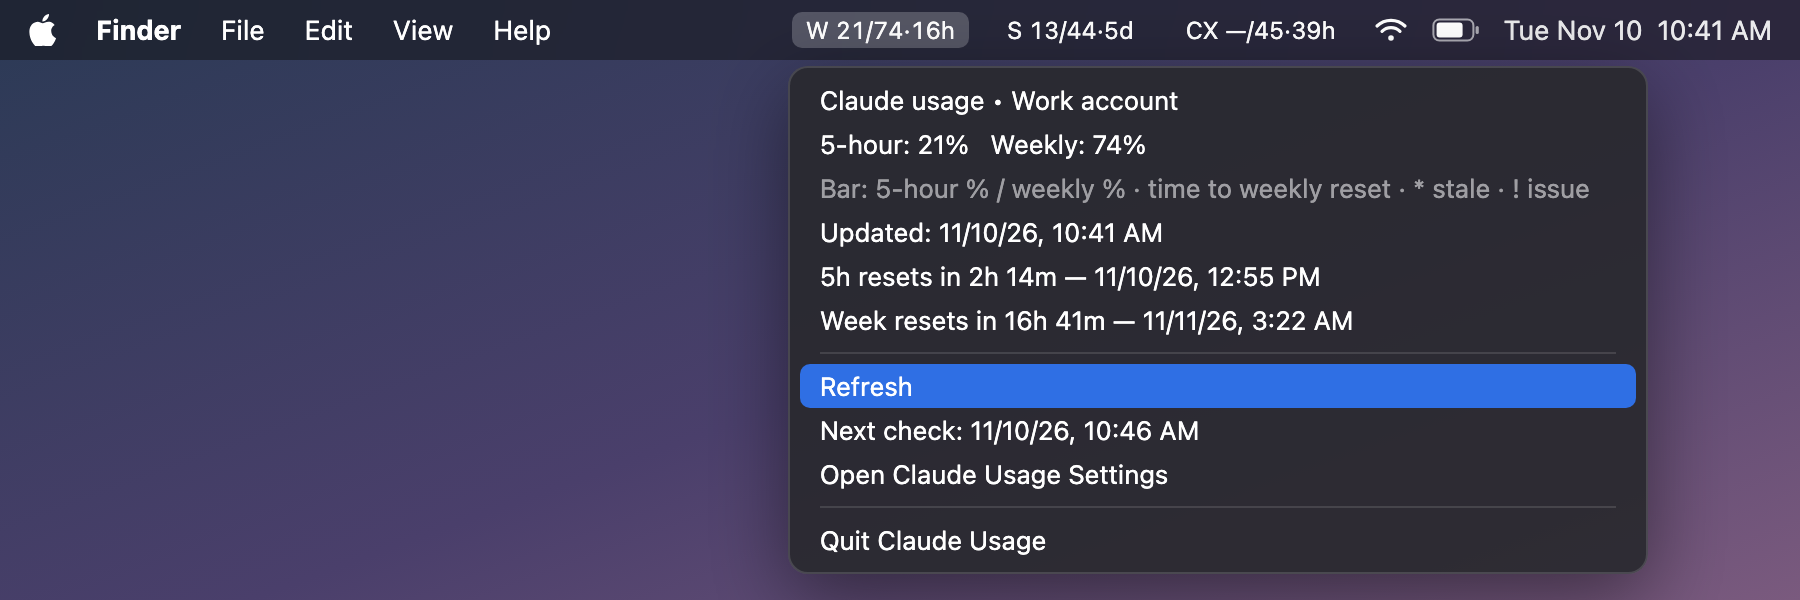
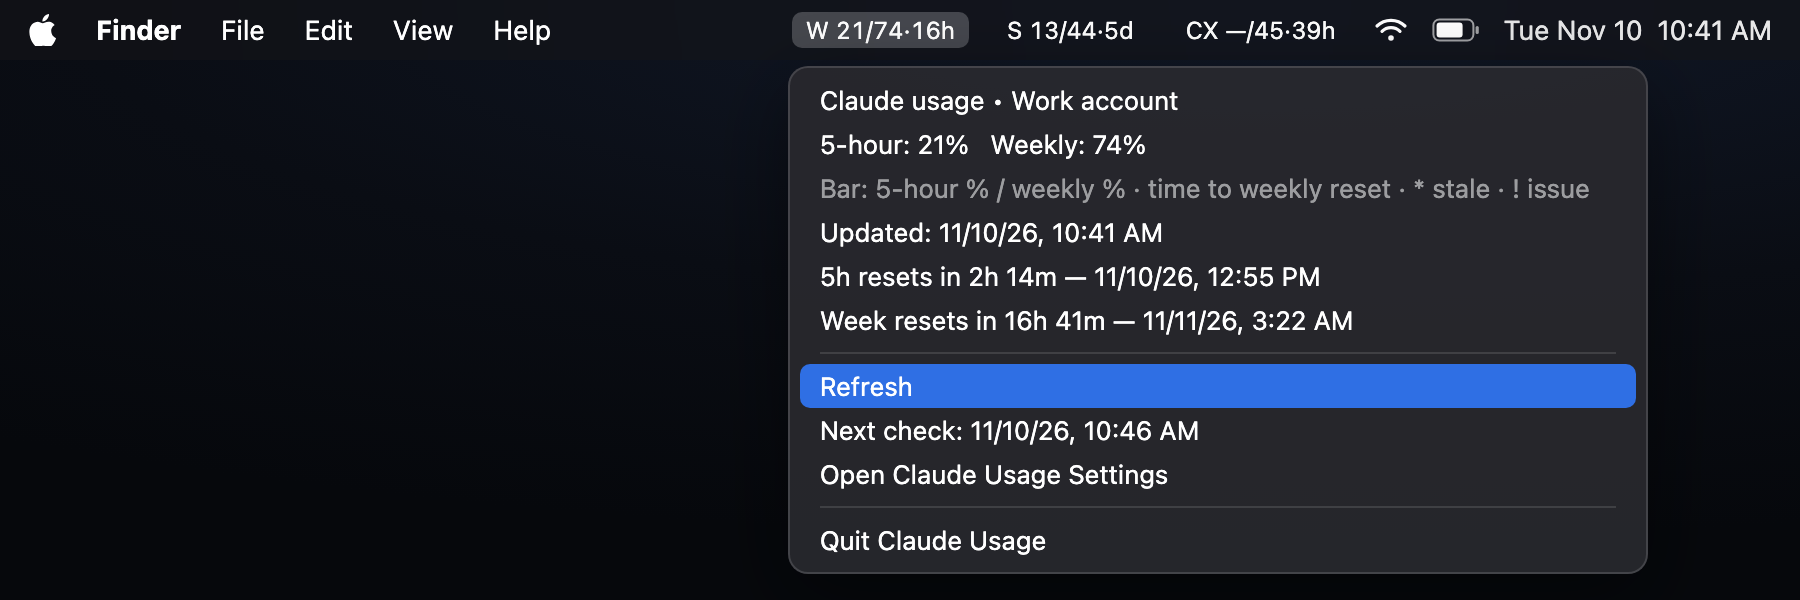
Use minimal dark style for architecture diagram and menu-bar preview

diff --git a/docs/architecture.html b/docs/architecture.html
@@ -1,5 +1,5 @@
 <!DOCTYPE html>
-<html lang="en" data-theme="dark" data-preset="classic">
+<html lang="en" data-theme="dark" data-preset="signal-flow">
 <head>
   <meta charset="UTF-8">
   <meta name="viewport" content="width=device-width, initial-scale=1.0">
@@ -5203,7 +5203,7 @@ OTHER DEALINGS IN THE FONT SOFTWARE.
     <!-- Main Diagram -->
     <div class="diagram-container" data-detail-level="read"
          data-preset-badge-editorial-plate="ARCHIFY / PLATE 04">
-      <svg viewBox="0 0 1100 572" role="img" lang="en" aria-labelledby="archify-diagram-title archify-diagram-description" data-animation="trace" data-preset="classic" data-quality-profile="showcase" data-node-ui="" data-reader-fit="intrinsic-height" data-reader-min-text="7.5" data-reader-primary-text="14">
+      <svg viewBox="0 0 1100 572" role="img" lang="en" aria-labelledby="archify-diagram-title archify-diagram-description" data-animation="trace" data-preset="signal-flow" data-quality-profile="showcase" data-node-ui="" data-reader-fit="intrinsic-height" data-reader-min-text="7.5" data-reader-primary-text="14">
         <title id="archify-diagram-title">AI Usage Menu Bar — how it works</title>
         <desc id="archify-diagram-description">An architecture diagram generated by Archify.</desc>
         <!-- Definitions -->

diff --git a/docs/menu-bar-preview.html b/docs/menu-bar-preview.html
@@ -1,6 +1,6 @@
 <!doctype html><html><head><meta charset="utf-8"><style>
 *{box-sizing:border-box;margin:0;white-space:nowrap}
-body{width:900px;height:300px;background:linear-gradient(160deg,#2b3a55,#4a3f6b 55%,#7a5a7e);font-family:-apple-system,BlinkMacSystemFont,"SF Pro Text",sans-serif;color:#fff;position:relative;overflow:hidden}
+body{width:900px;height:300px;background:radial-gradient(120% 90% at 70% 0%,#111827 0%,#0a0d14 55%,#06080c 100%);font-family:-apple-system,BlinkMacSystemFont,"SF Pro Text",sans-serif;color:#fff;position:relative;overflow:hidden}
 .bar{height:30px;background:rgba(20,20,24,.55);backdrop-filter:blur(20px);display:flex;align-items:center;padding:0 14px;font-size:13.5px}
 .l{display:flex;gap:20px;align-items:center}.l b{font-weight:700}
 .r{margin-left:auto;display:flex;gap:12px;align-items:center}

diff --git a/README.md b/README.md
@@ -57,10 +57,7 @@ Check which account a slot is signed in to with `claude auth status` (add `CLAUD
 
 ## Privacy and how it works
 
-<picture>
-  <source media="(prefers-color-scheme: dark)" srcset="docs/architecture-dark.png">
-  <img src="docs/architecture-light.png" alt="Architecture: you read the Claude Usage and Codex Usage menu-bar items. On your Mac, Claude Usage reads its token from the macOS Keychain, asks Claude Code to renew it when expiring (Claude Code saves the new token to the Keychain), and calls the Anthropic usage API every 5 minutes. Codex Usage asks the Codex CLI for rate limits, which comes from your ChatGPT account.">
-</picture>
+<img src="docs/architecture.png" alt="Architecture: you read the Claude Usage and Codex Usage menu-bar items. On your Mac, Claude Usage reads its token from the macOS Keychain, asks Claude Code to renew it when expiring (Claude Code saves the new token to the Keychain), and calls the Anthropic usage API every 5 minutes. Codex Usage asks the Codex CLI for rate limits, which comes from your ChatGPT account.">
 
 <sub>Made with <a href="https://github.com/tt-a1i/archify">Archify</a>. Source: <code>docs/architecture.archify.json</code>; download <code>docs/architecture.html</code> for the interactive version.</sub>
 
